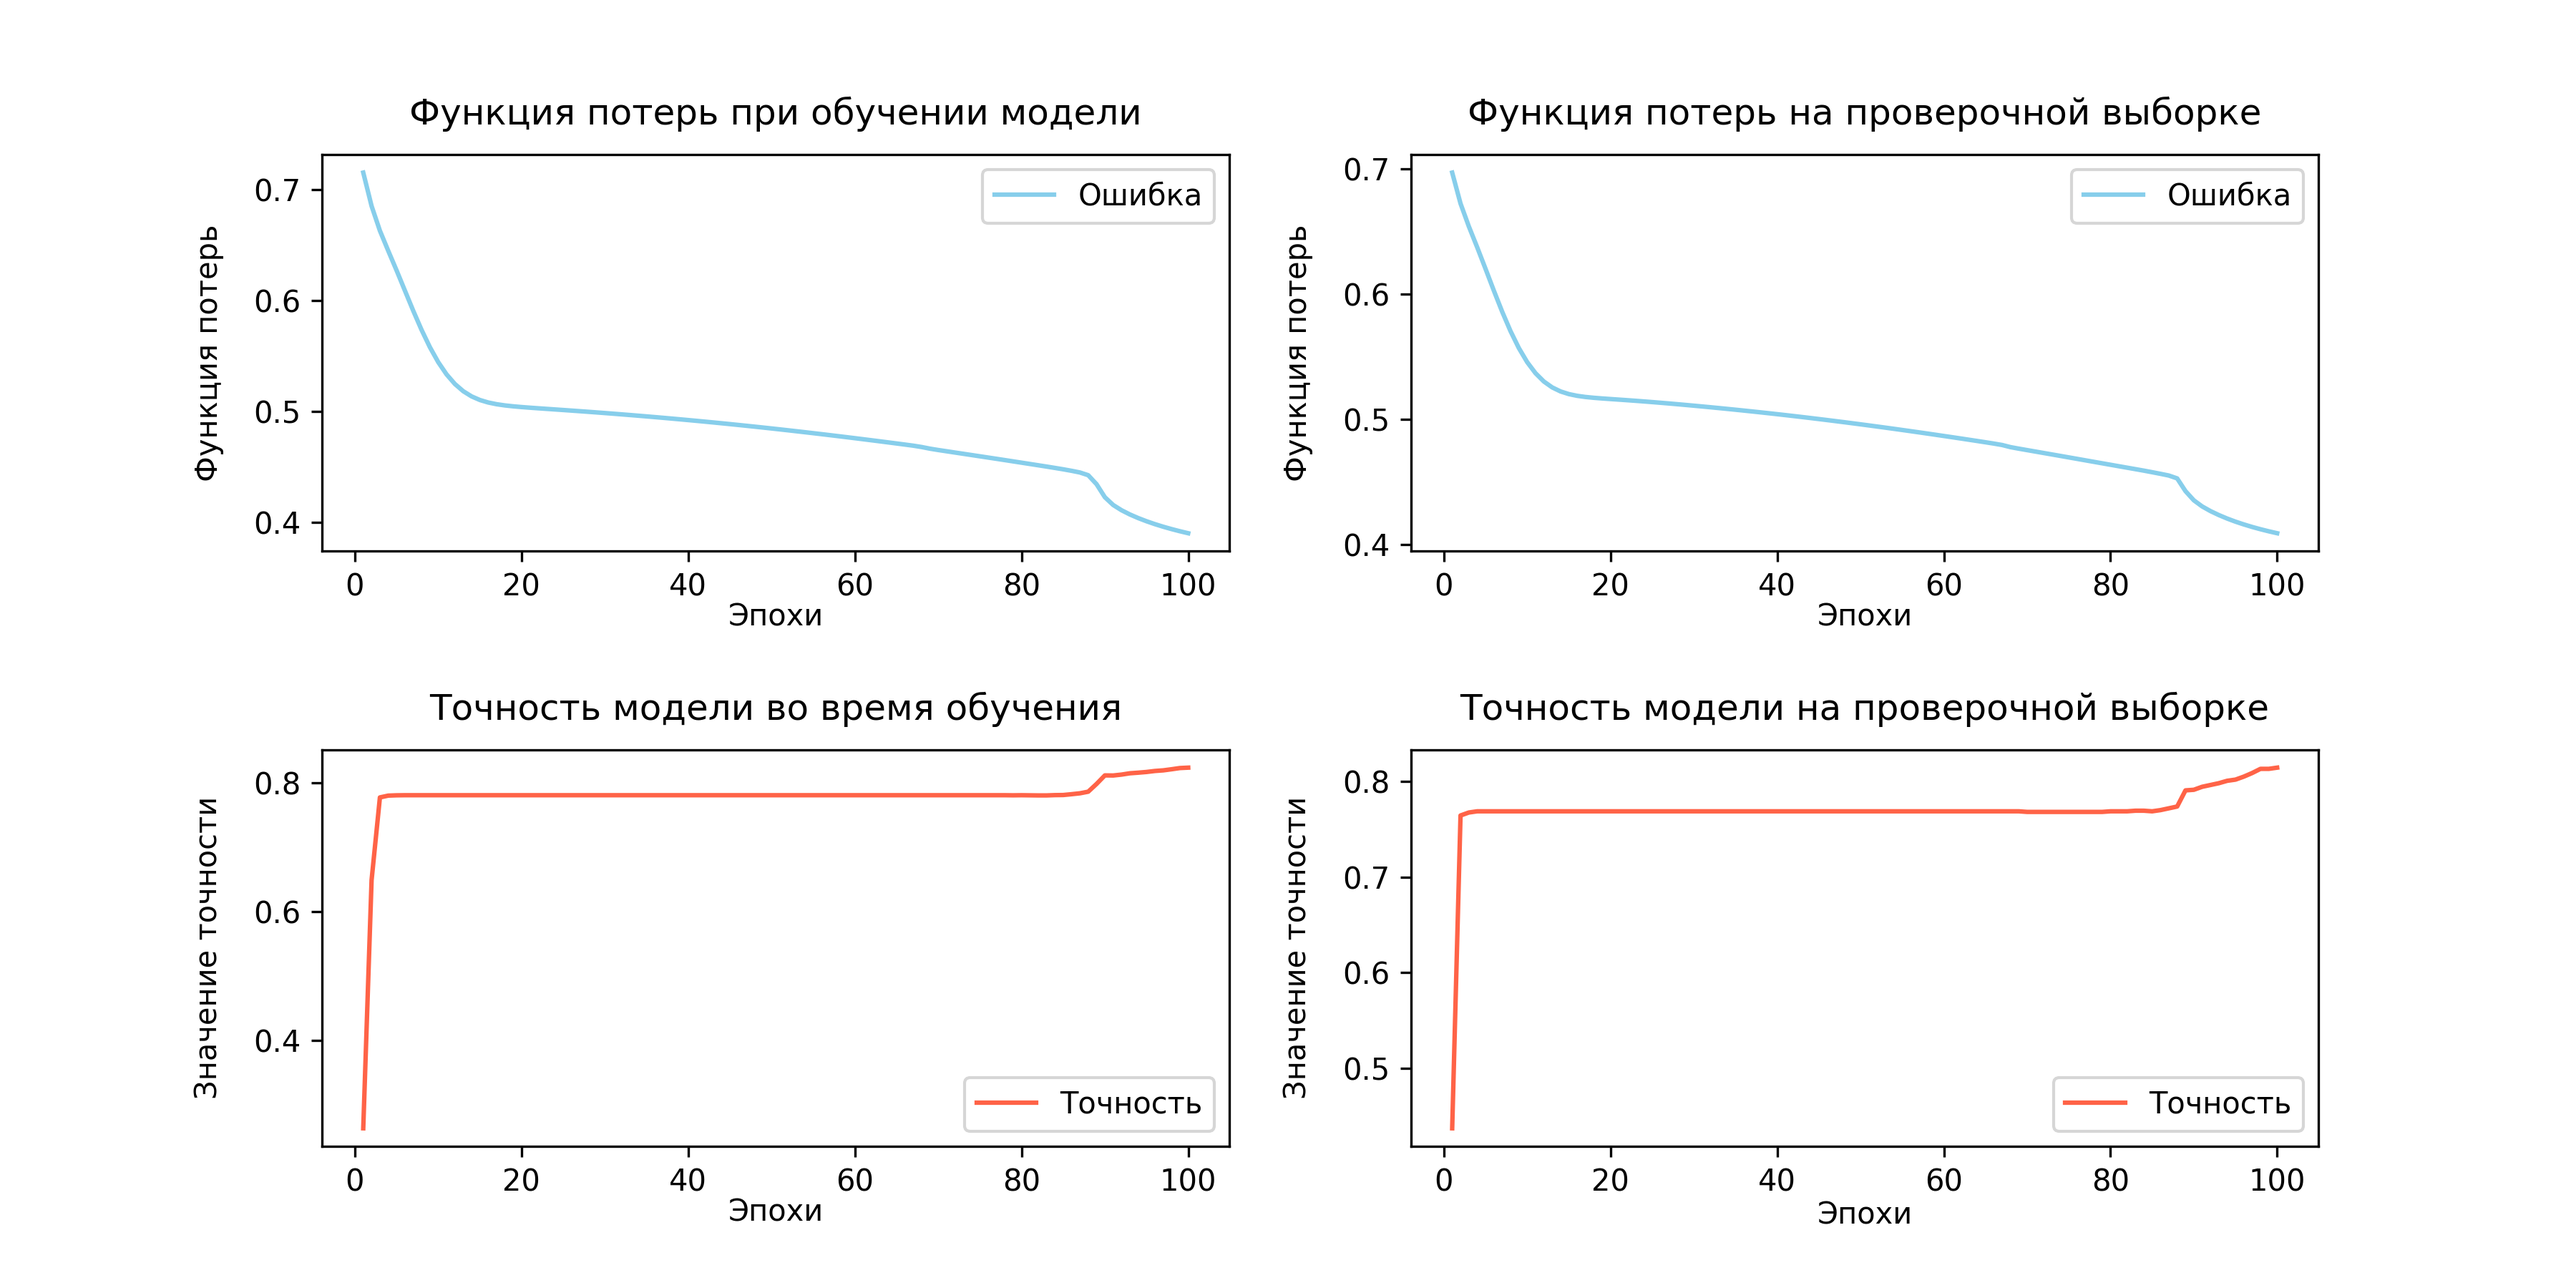
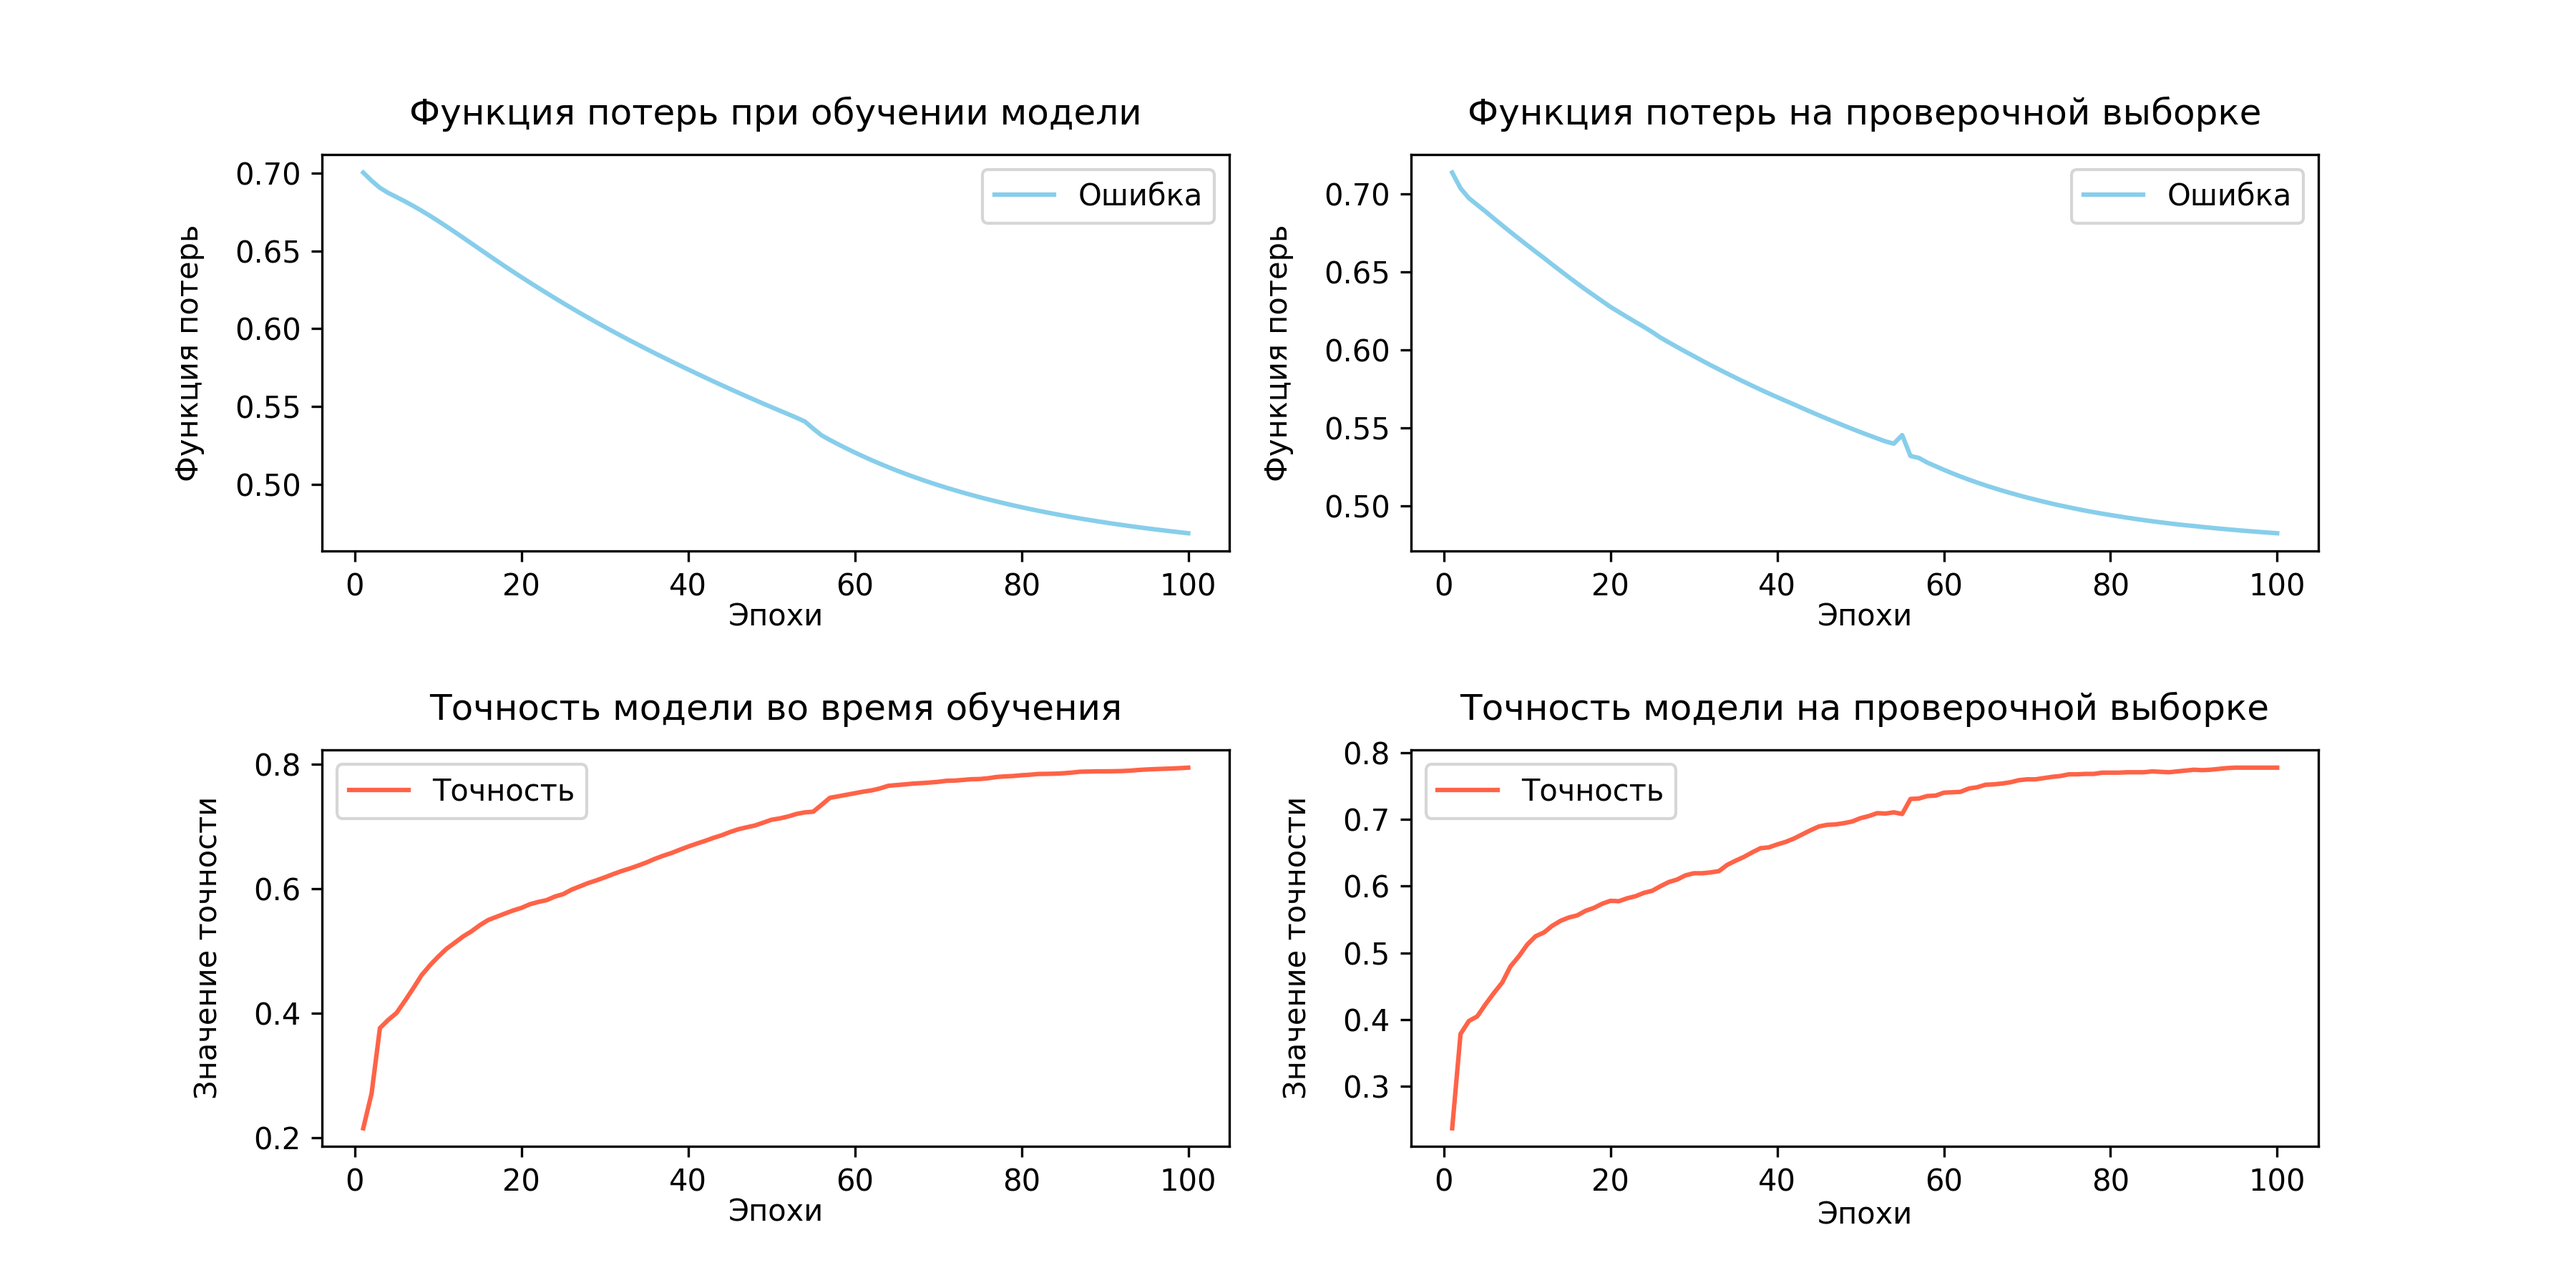
small refactor..

diff --git a/main.py b/main.py
@@ -6,17 +6,21 @@ from sklearn.preprocessing import MinMaxScaler
 from sklearn.utils.class_weight import compute_class_weight
 from sklearn.utils import shuffle
 from sklearn.metrics import roc_curve, auc
+import tensorflow as tf
 import keras
 from keras.api.layers import Input, Dense, Dropout
 from keras.api.models import Model
 from keras.api.utils import set_random_seed
 from keras.api.models import load_model
 from keras.api.callbacks import EarlyStopping, ReduceLROnPlateau
+import random
 
 train_model_mode = True  # обучаем модель или загружаем уже обученную
 # Установим seed для воспроизводимости результатов:
 seed = 42
+random.seed(seed)
 np.random.seed(seed)
+tf.random.set_seed(seed)
 set_random_seed(seed)
 
 # Прочитаем данные:
@@ -128,7 +132,7 @@ if train_model_mode:
         verbose=2,
         validation_split=0.2,
         shuffle=True,
-        class_weight=None,
+        class_weight=class_weight,
         callbacks=[early_stopping, reduce_lr],
     )
     # Сохраним ее в файл:
